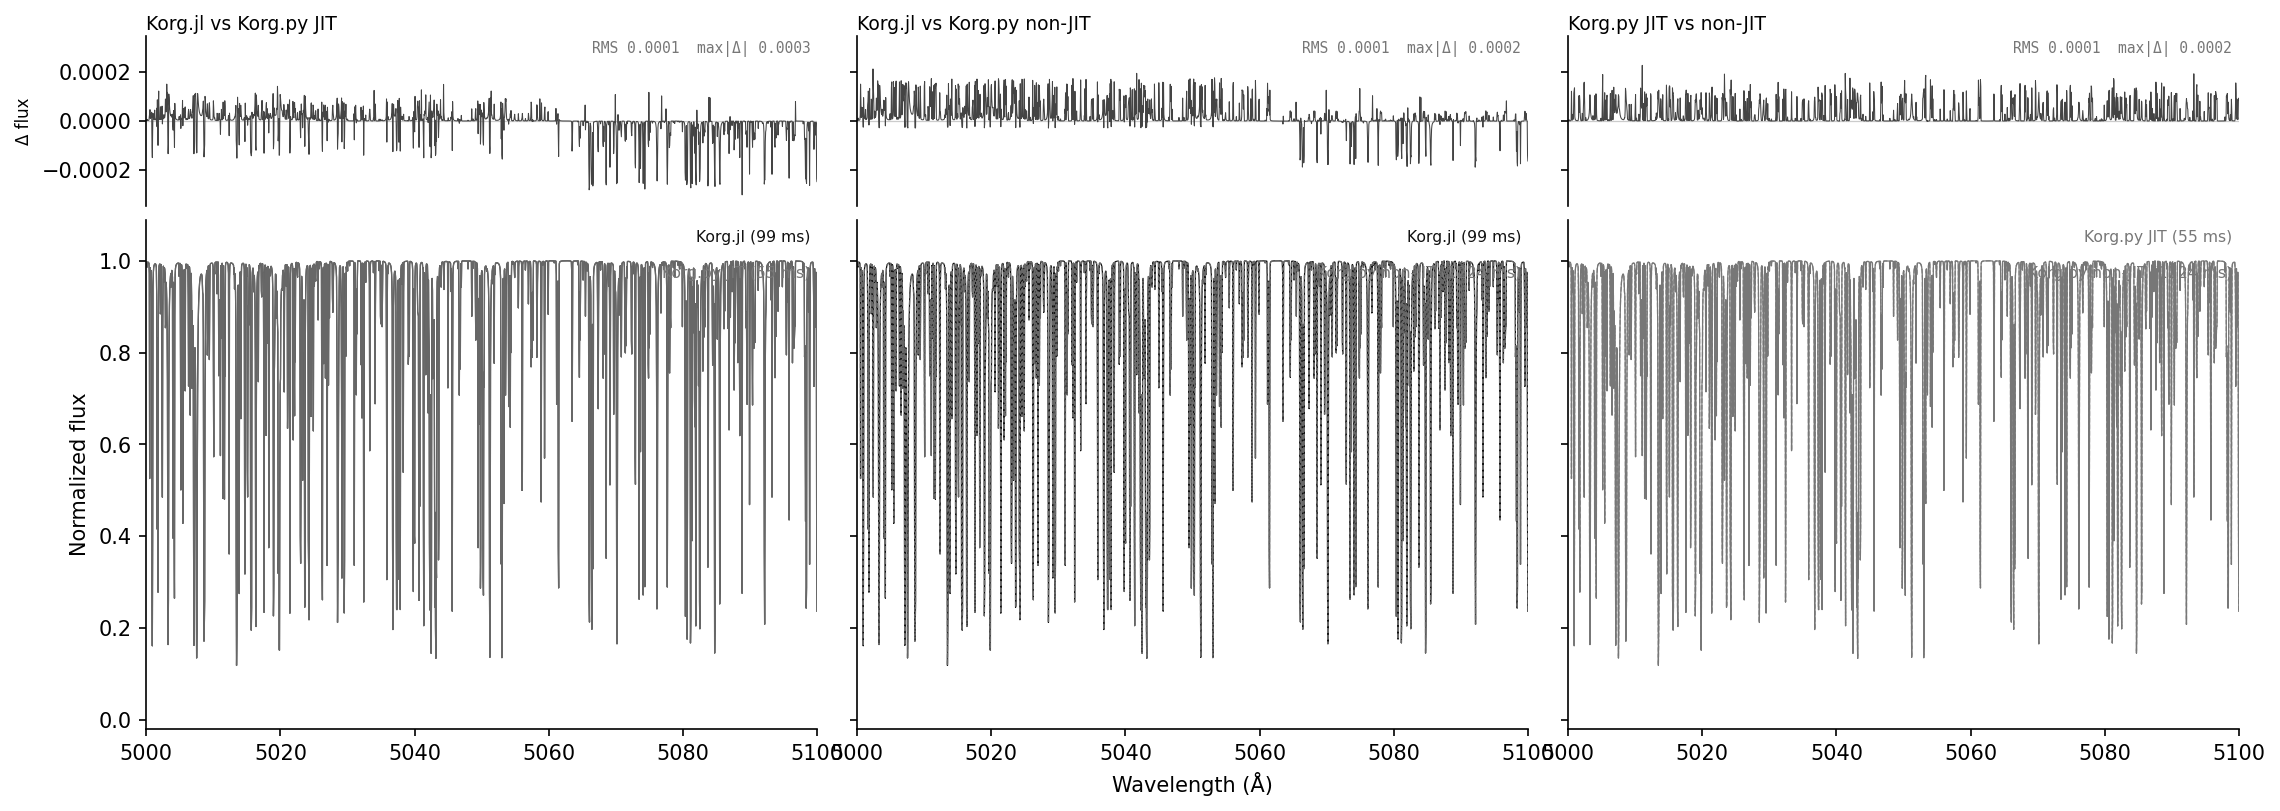
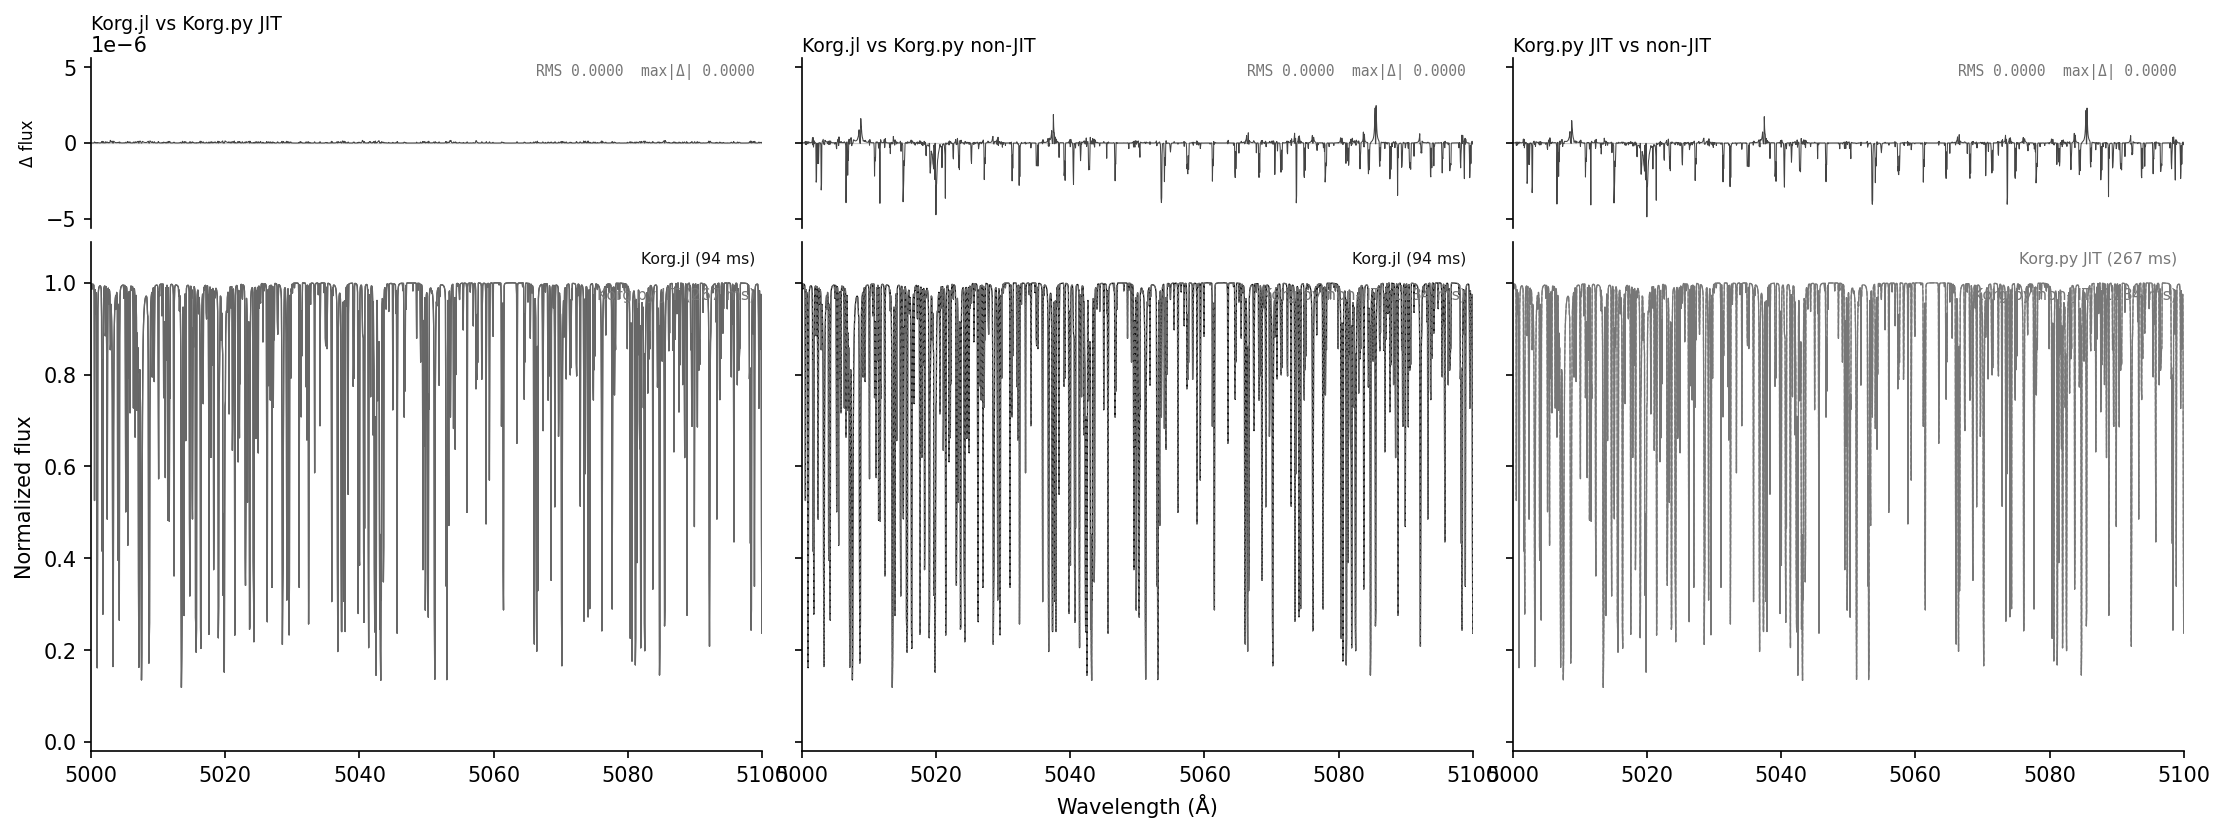
|delta flux| < ~1e-7

diff --git a/src/korg/continuum.py b/src/korg/continuum.py
@@ -956,8 +956,11 @@ def Heminus_ff(nu, T, nHe_I_div_partition, ne):
     #              = n(He I) / U(T)
     nHeI_groundstate = ndens_state_He_I(1, nHe_I_div_partition, T)
 
+    # Return 0 outside valid wavelength range (5063-151878 Å), matching Julia's bounds_checked_absorption
+    in_bounds = (lambda_angstrom >= 5063.0) & (lambda_angstrom <= 151878.0)
+
     # α = K * P_e * n(He I, n=1)
-    return K * P_e * nHeI_groundstate
+    return jnp.where(in_bounds, K * P_e * nHeI_groundstate, 0.0)
 
 
 def electron_scattering(ne):
@@ -1681,9 +1684,12 @@ def prepare_continuum_batch_fast(raw_arrays_list, partition_funcs, T_arr):
             else:
                 metal_bf_dens_arr[i, j] = ra['doubly_ionized_dens'][z_idx]
 
-    # Z=1 FF (all singly ionized except Peach + H_II) and Z=2 FF
+    # Z=1 FF: all singly ionized except Peach species (He_II, C_II, Si_II, Mg_II at indices 1,5,13,11)
     peach_z_idx = {z_idx for z_idx, _ in _PEACH_IDX}
-    n_Z1_ff_arr = np.array([ra['ionized_dens'].sum() - ra['ionized_dens'][1] for ra in raw_arrays_list])
+    n_Z1_ff_arr = np.array([
+        ra['ionized_dens'].sum() - sum(ra['ionized_dens'][z_idx] for z_idx in peach_z_idx)
+        for ra in raw_arrays_list
+    ])
     n_Z2_ff_arr = np.array([ra['doubly_ionized_dens'].sum() for ra in raw_arrays_list])
 
     return dict(

diff --git a/src/korg/data_loader.py b/src/korg/data_loader.py
@@ -822,7 +822,7 @@ def load_default_linelist(reference_wavelength_cm: float = 5e-5):
         Lines sorted by wavelength (ascending)
     """
     import csv
-    from .linelist import Line, Species
+    from .linelist import create_line, Species
 
     if reference_wavelength_cm != 5e-5:
         return []
@@ -854,6 +854,6 @@ def load_default_linelist(reference_wavelength_cm: float = 5e-5):
                     vdW = None
             else:
                 vdW = None
-            lines.append(Line(wl, log_gf, spec, E_lower,
-                              gamma_rad=gamma_rad, gamma_stark=gamma_stark, vdW=vdW))
+            lines.append(create_line(wl, log_gf, spec, E_lower,
+                                     gamma_rad=gamma_rad, gamma_stark=gamma_stark, vdW=vdW))
     return lines

diff --git a/src/korg/line_absorption.py b/src/korg/line_absorption.py
@@ -707,7 +707,8 @@ def _line_absorption_fast(
                              np.sqrt(np.maximum(gamma_wl_all / (np.pi * rho_crit_all) -
                                                 gamma_wl_all**2, 0.0)))
     # Max window per line: (n_lines,)
-    max_wins = np.max(np.sqrt(win_G_all**2 + win_L_all**2), axis=1)
+    # Match Julia: take max of Gaussian and Lorentzian windows separately before combining.
+    max_wins = np.sqrt(np.max(win_G_all, axis=1)**2 + np.max(win_L_all, axis=1)**2)
 
     # --- Bucketed JAX Voigt accumulation ---
     # Lines are grouped by window size so each bucket fits a fixed W_MAX-pixel window.
